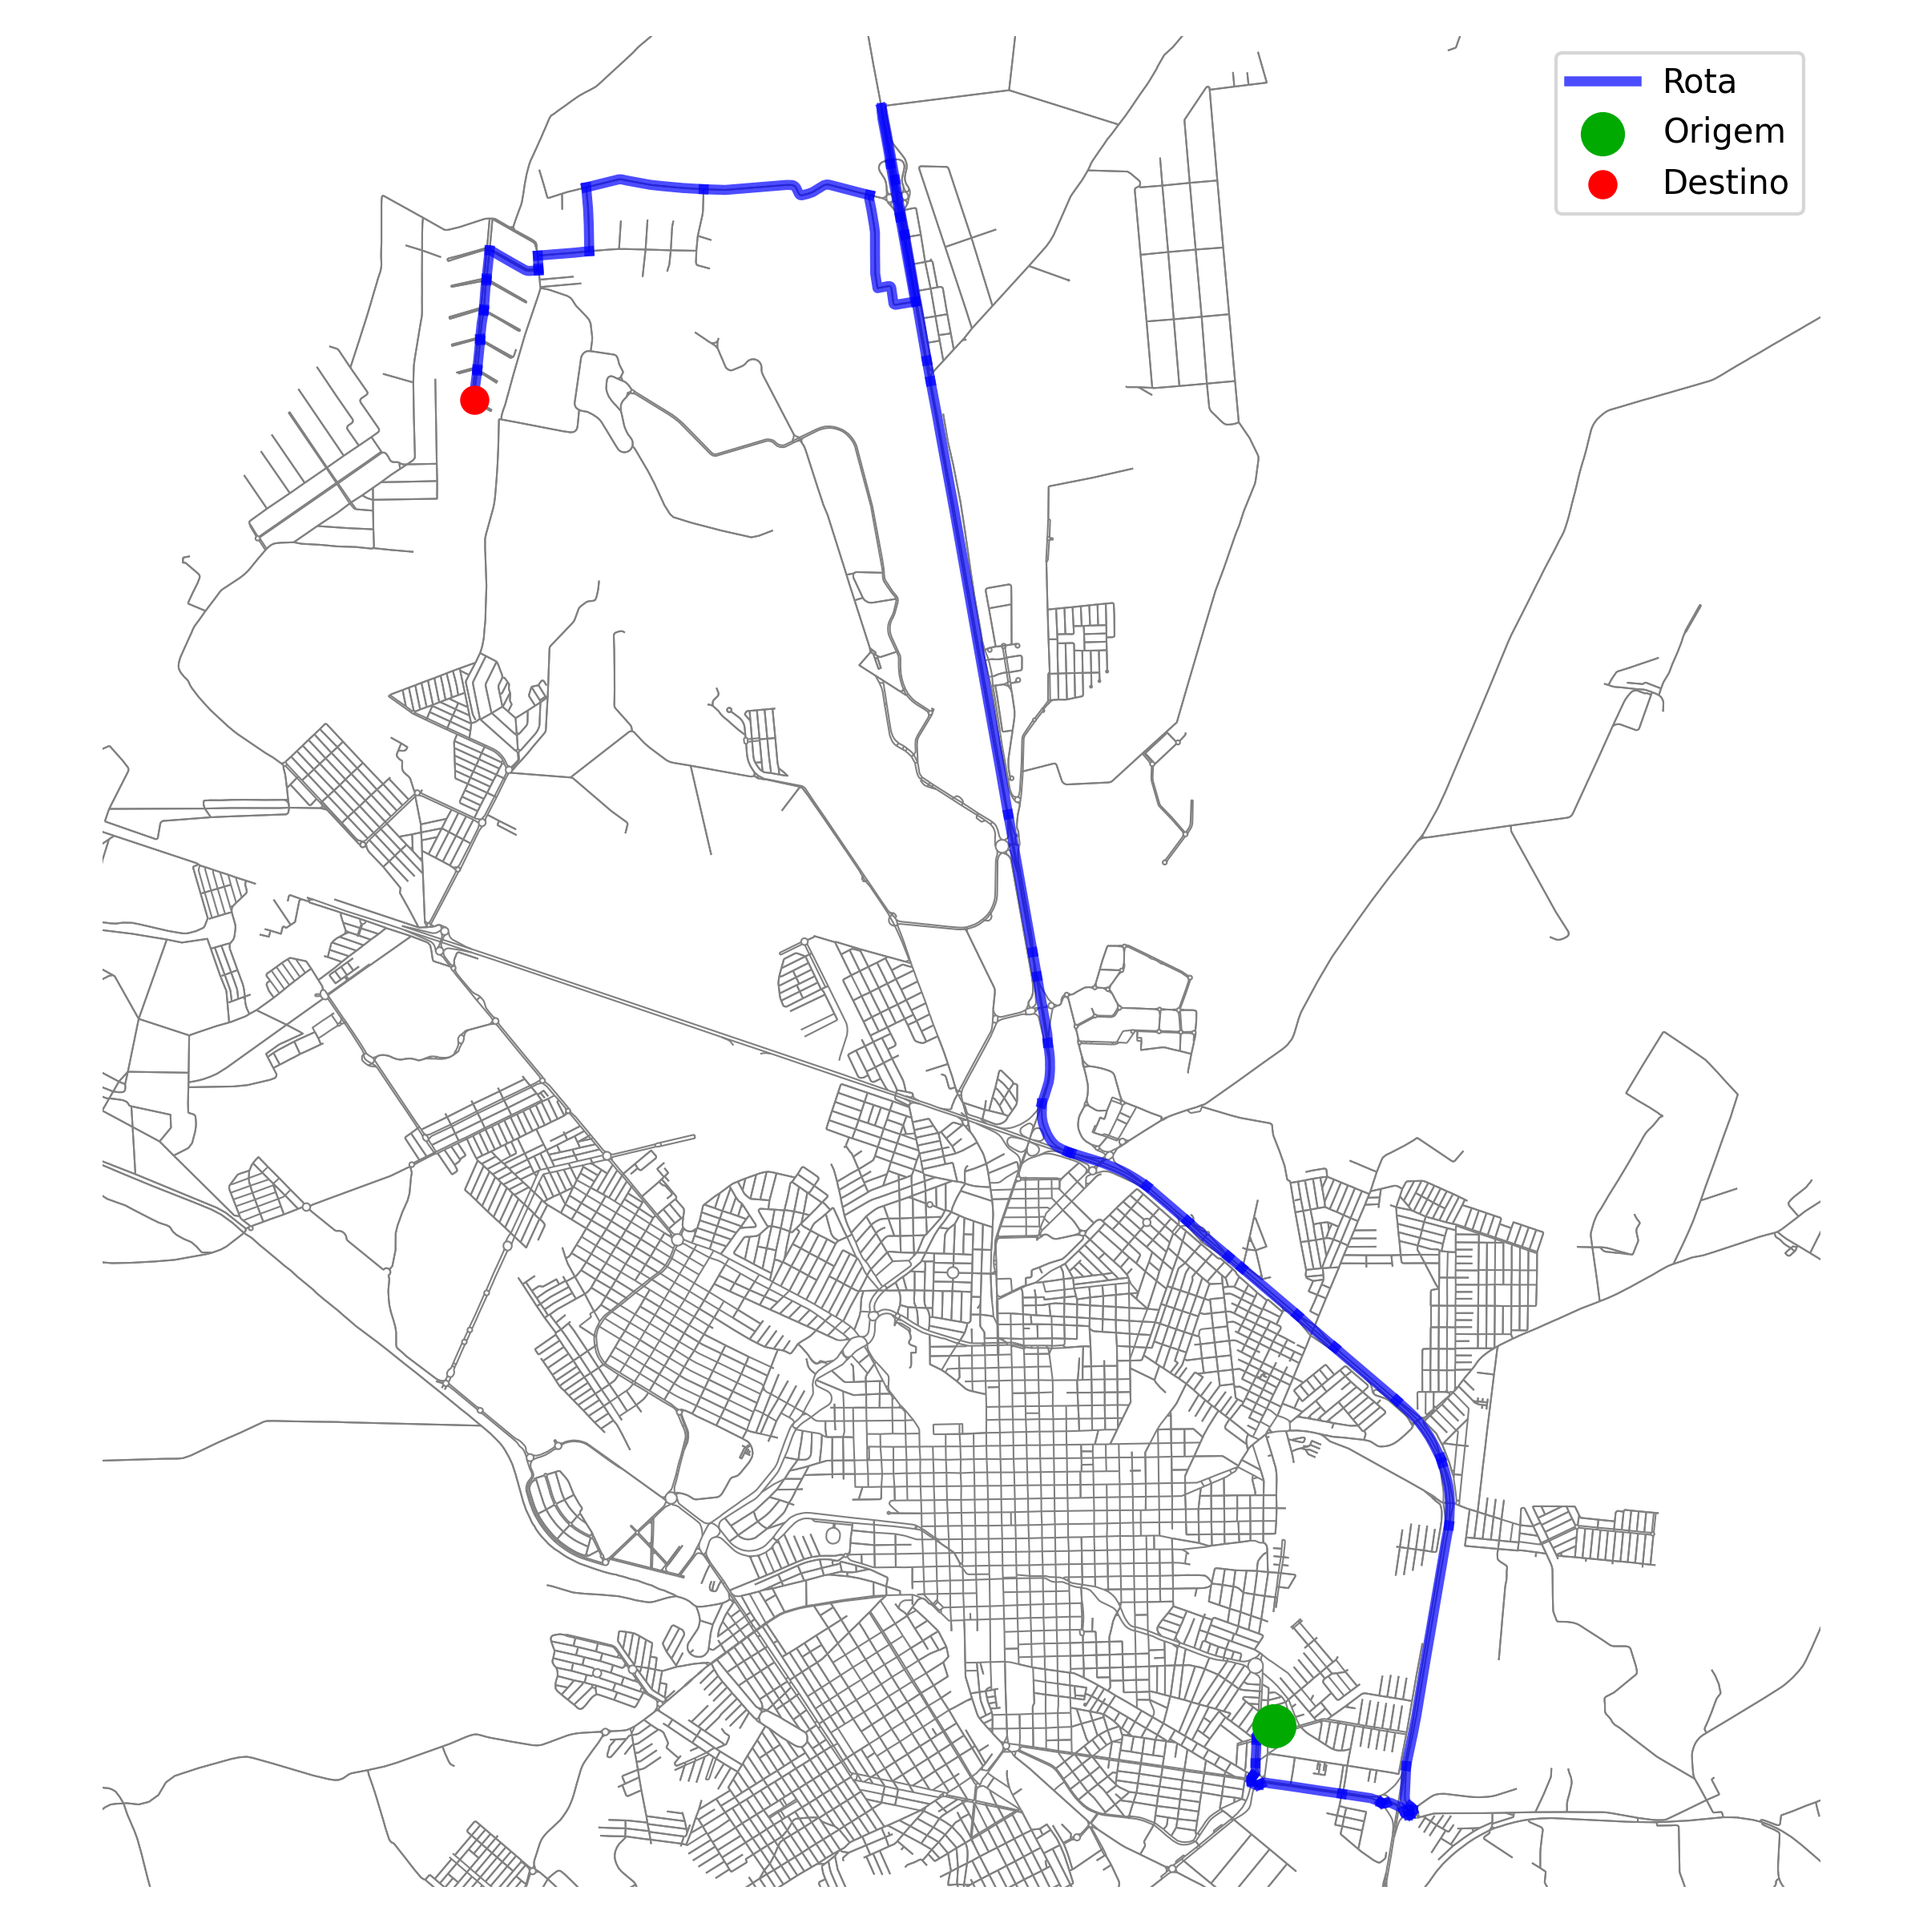
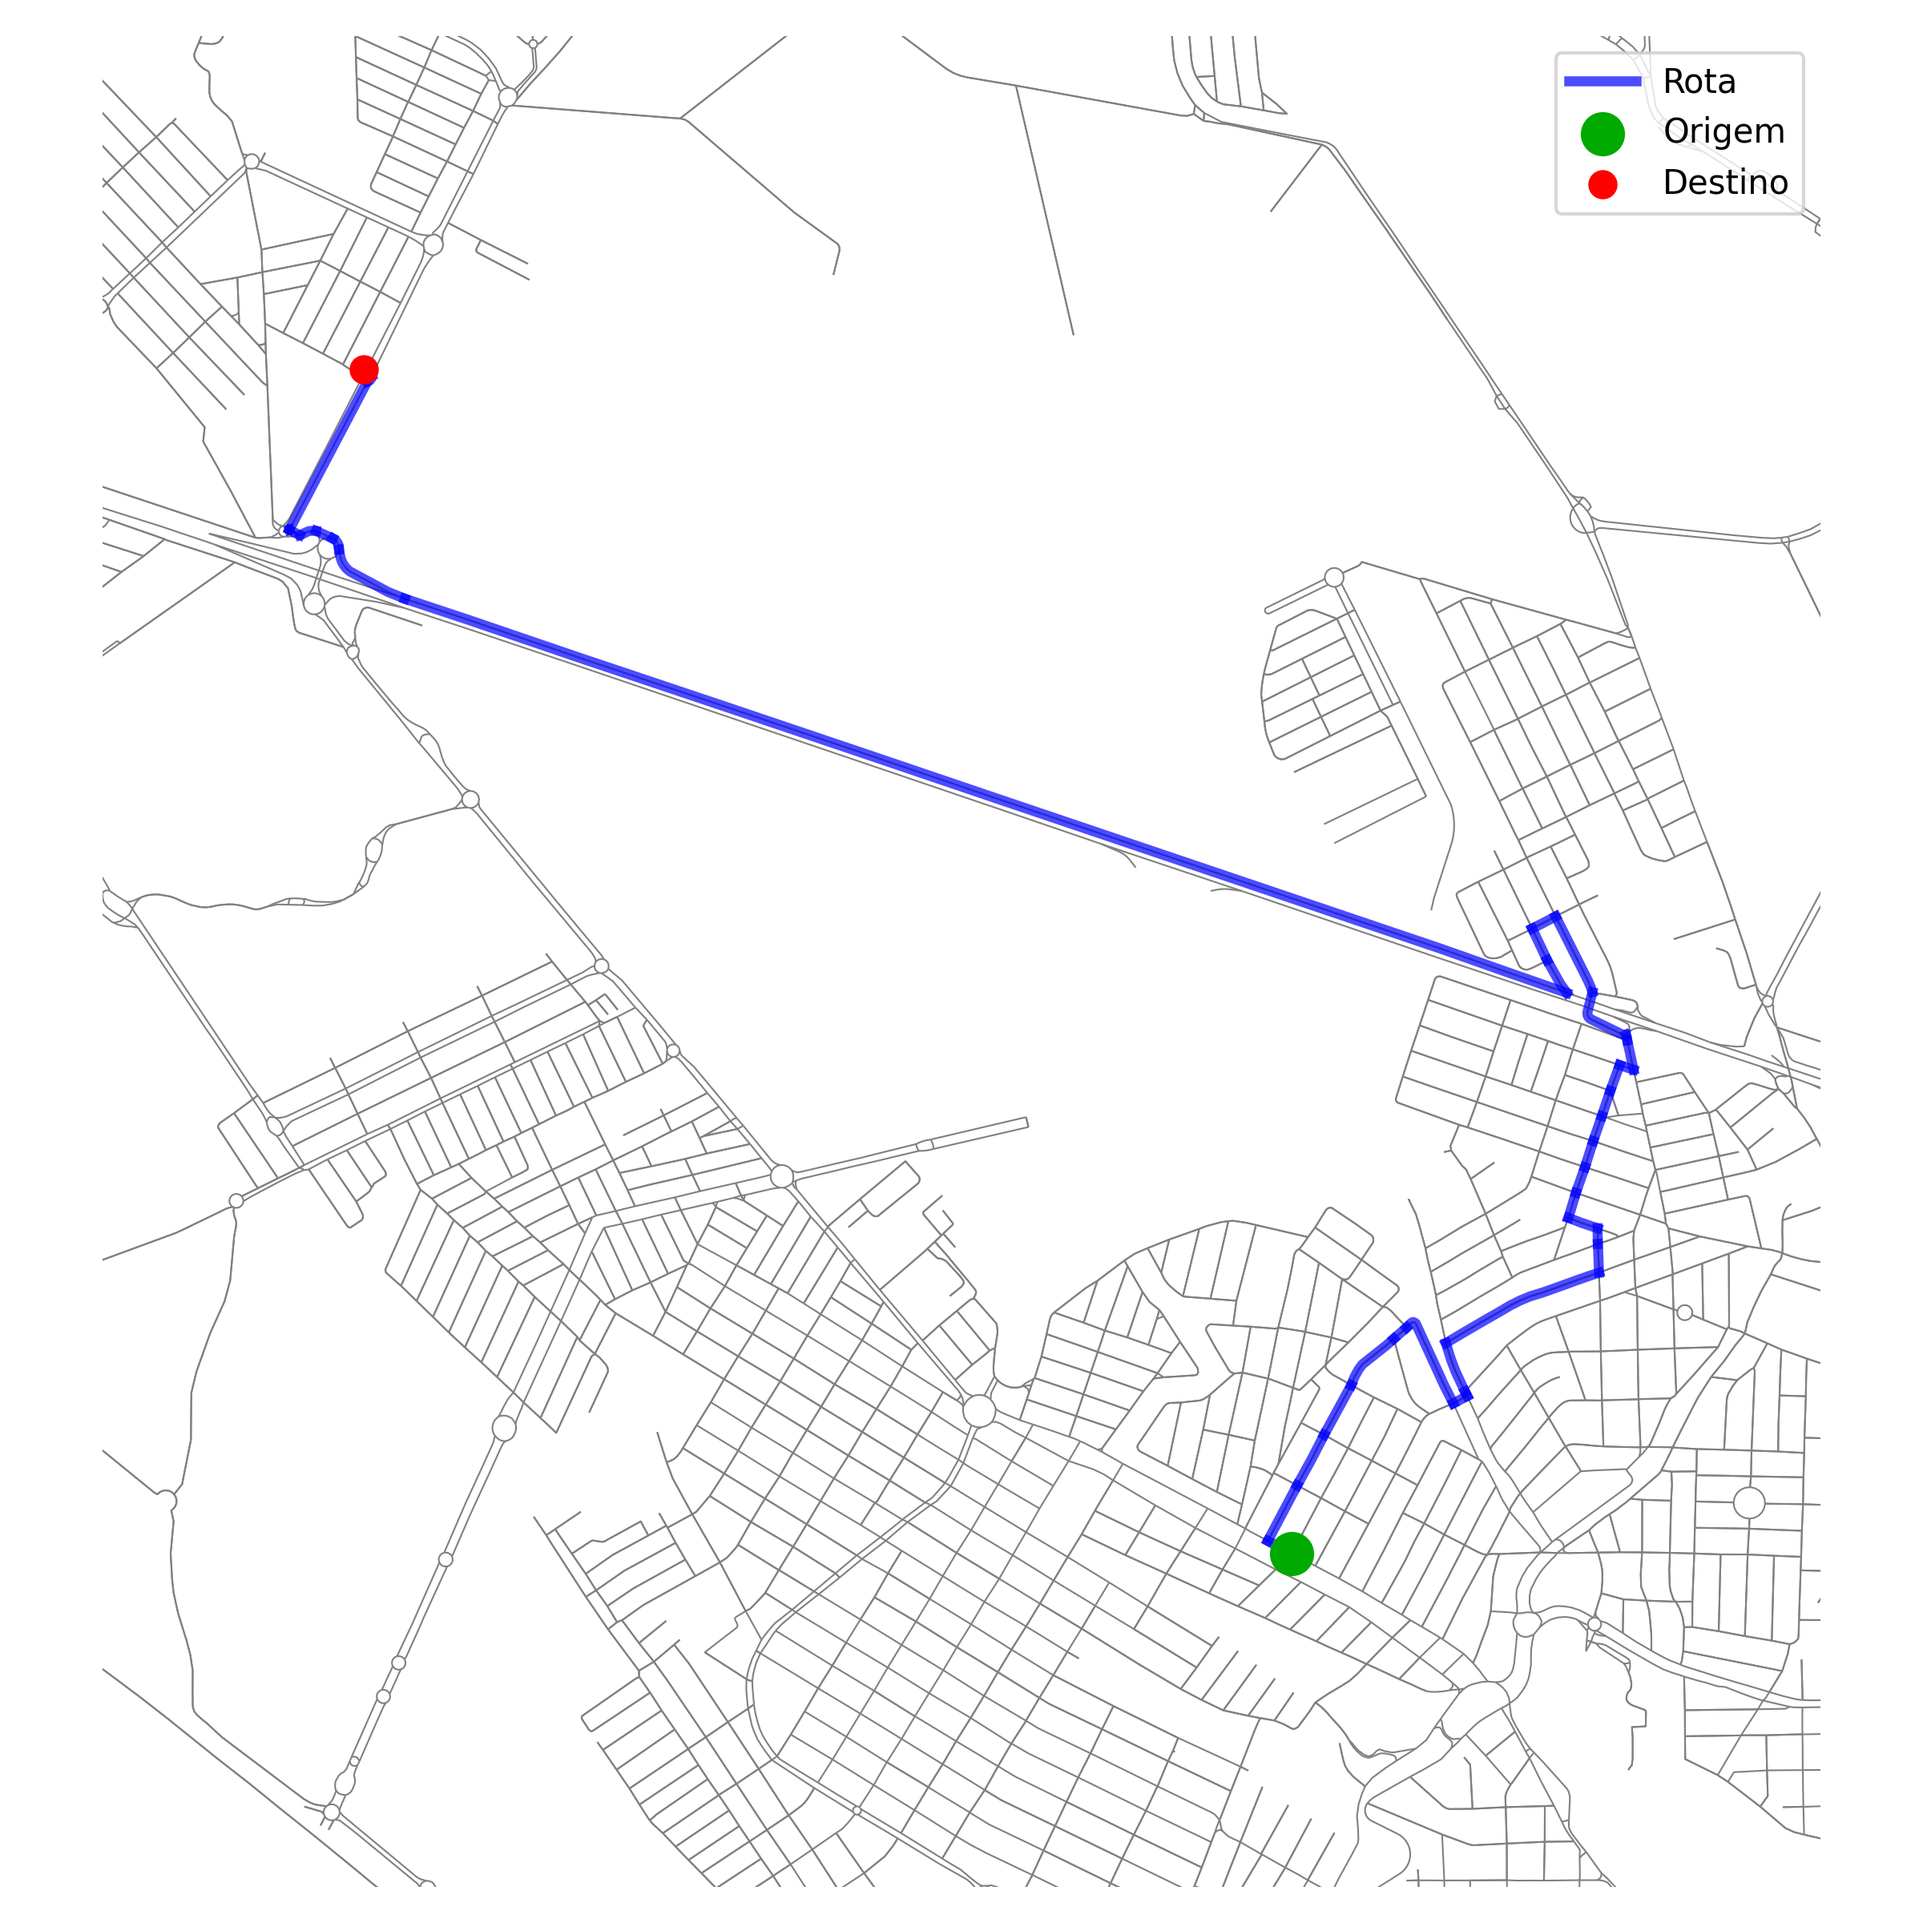
.

diff --git a/src/project.py b/src/project.py
@@ -224,7 +224,8 @@ class BloodDonationApp:
         self.nos_label.config(text=f"Nós percorridos: {len(rota)}")
         
         # Plotar rota
-        self.grafo.plotar_rota_com_zoom(rota)
+        nome_arquivo = f"rota_{algoritmo.lower().replace('*', 'star')}"
+        self.grafo.plotar_rota(rota, name=nome_arquivo)
 
 if __name__ == "__main__":
     root = tk.Tk()
